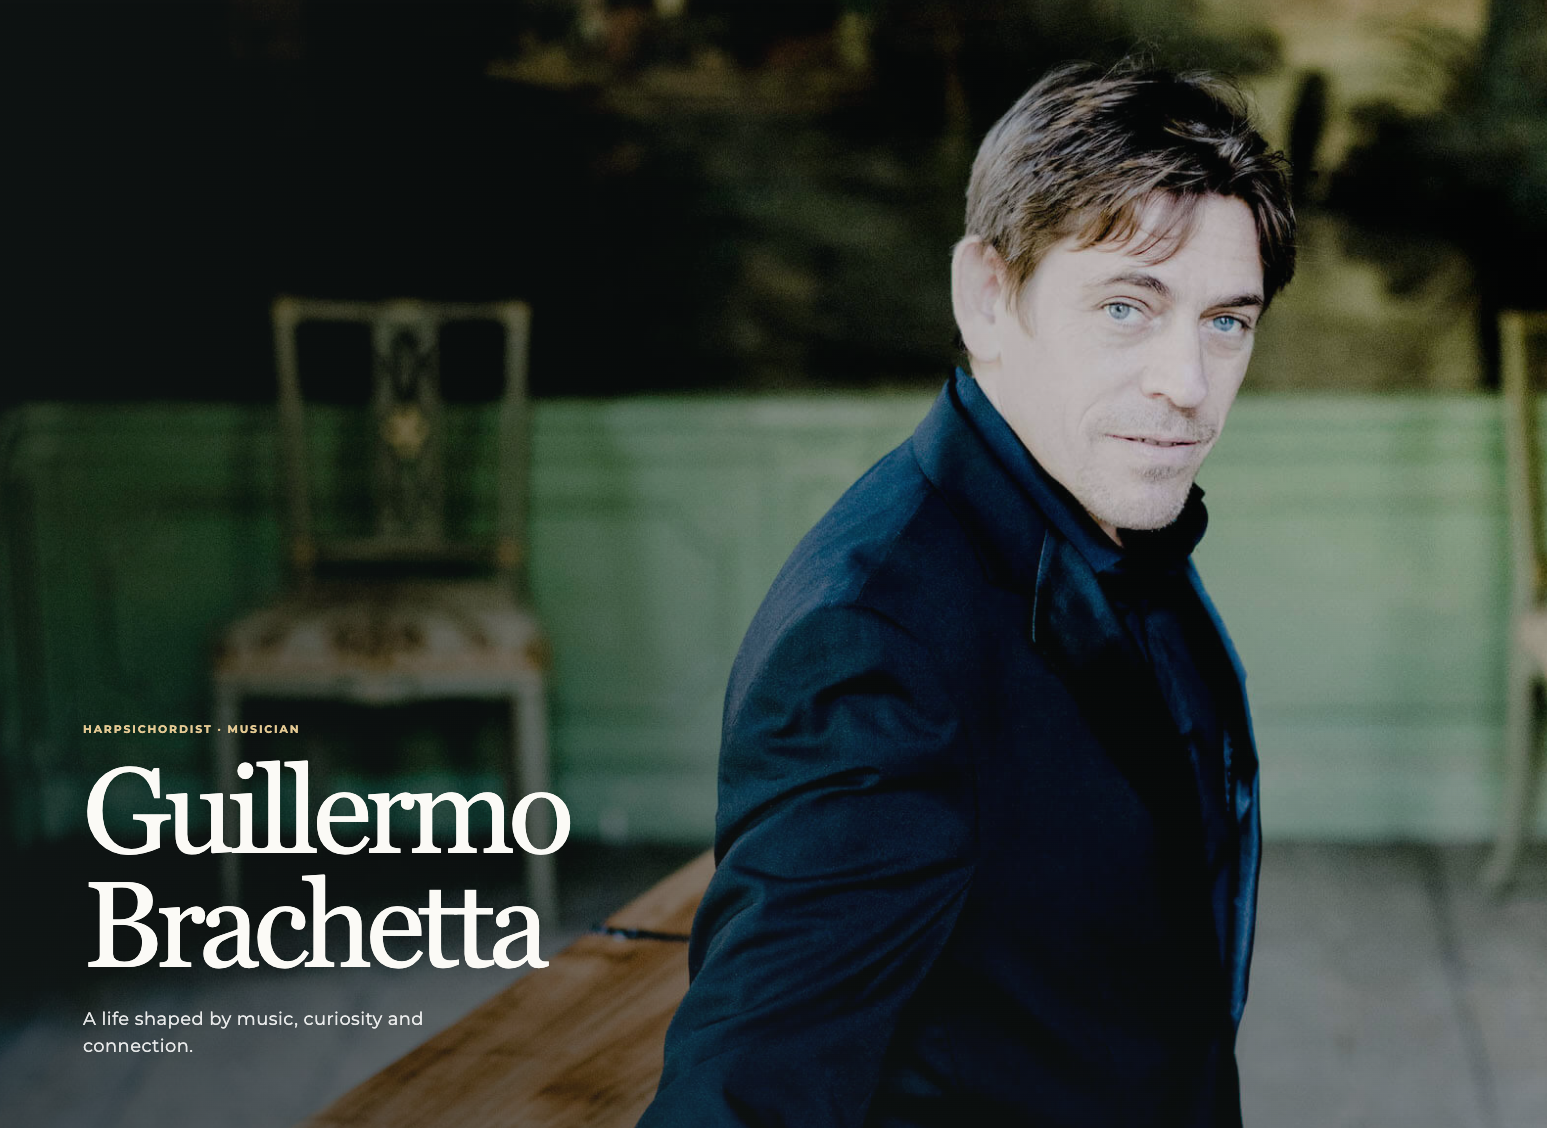
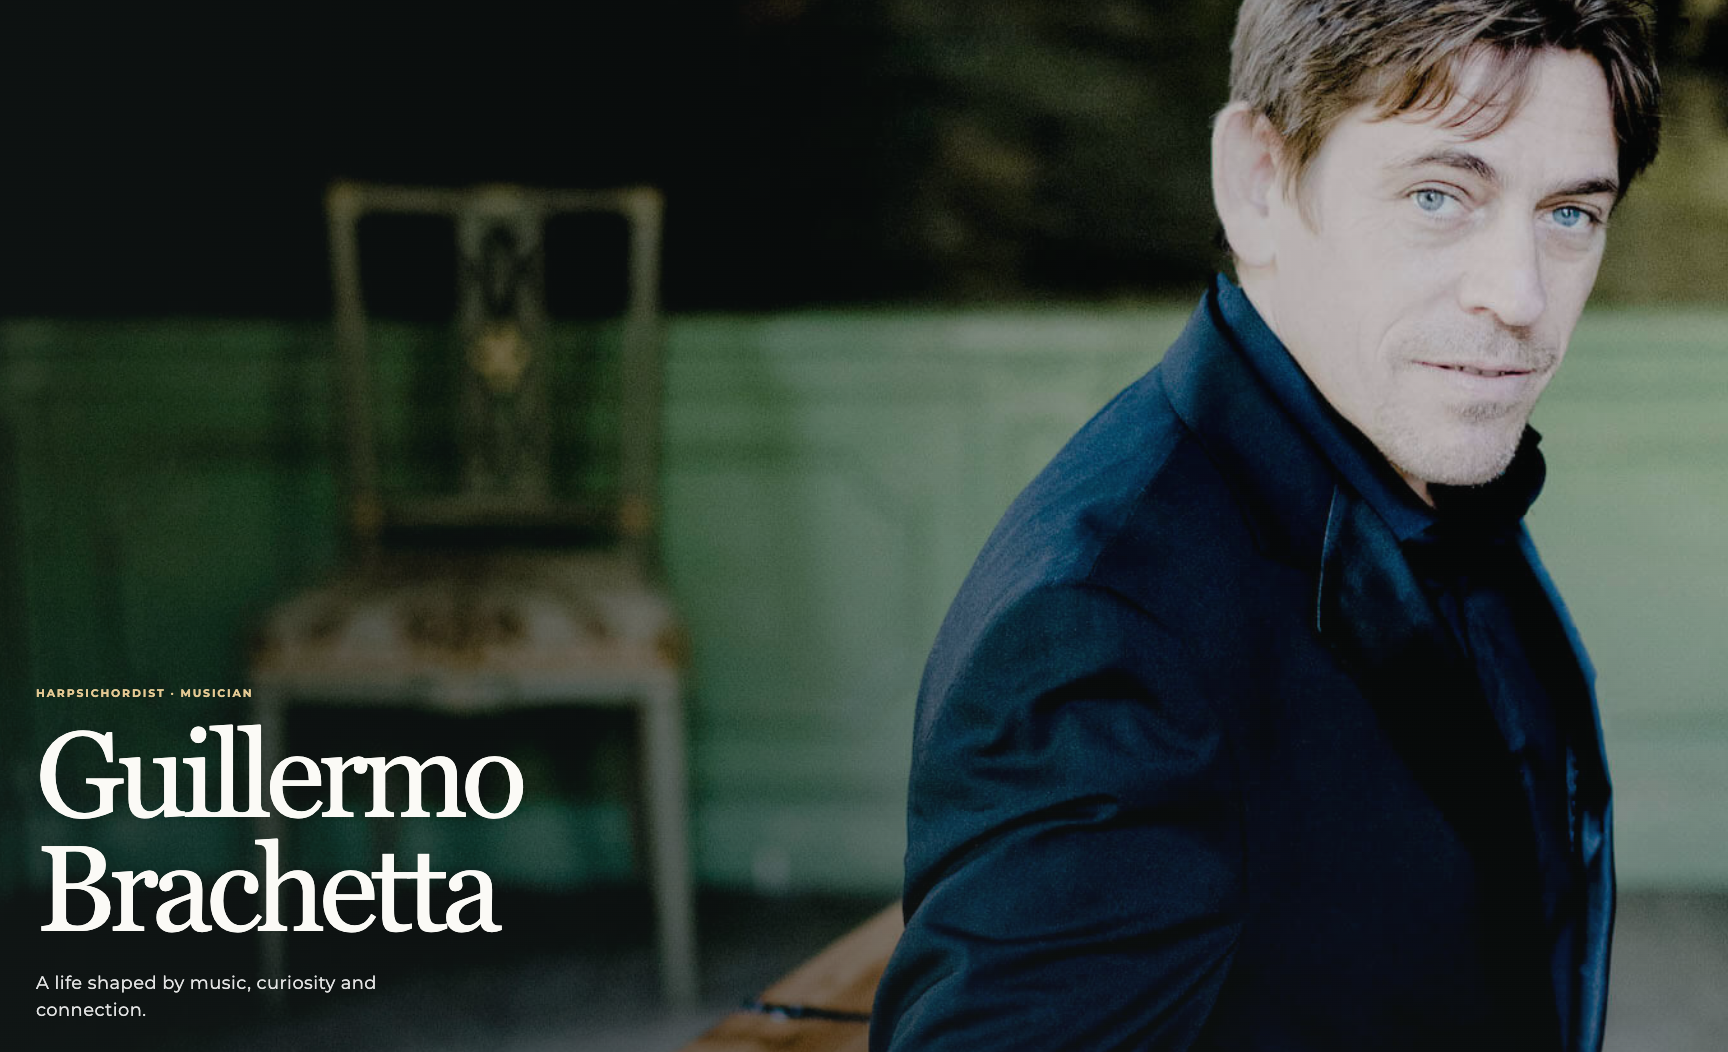
Image fixed

diff --git a/src/style/graphic.scss b/src/style/graphic.scss
@@ -260,7 +260,7 @@ h1 {
     display: block;
     width: 100%;
     aspect-ratio: 1.65;
-    object-fit: contain;
+    object-fit: cover;
     object-position: center;
     background-color: #faf8f2;
     transition: transform 0.2s;
